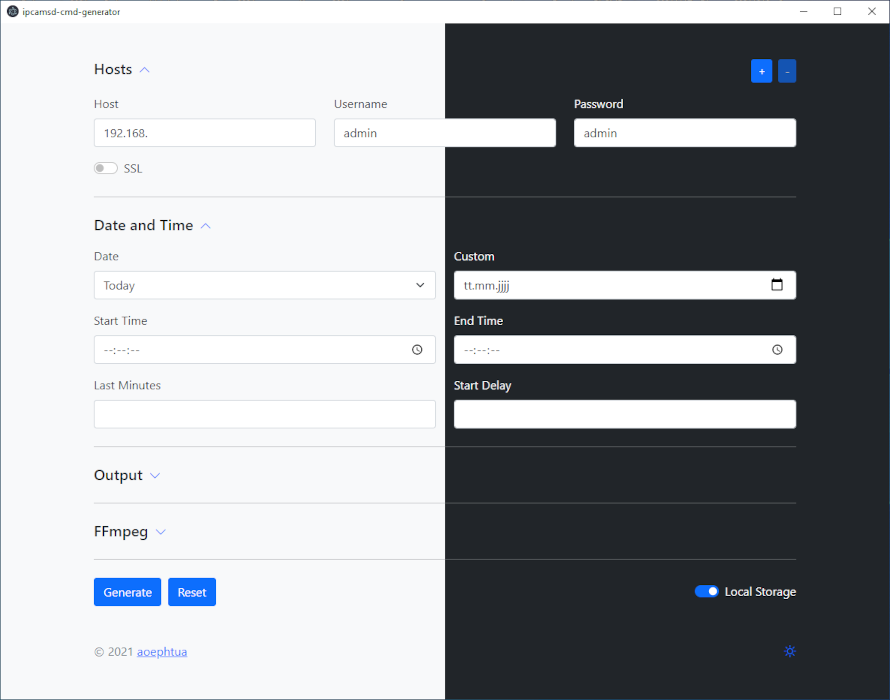
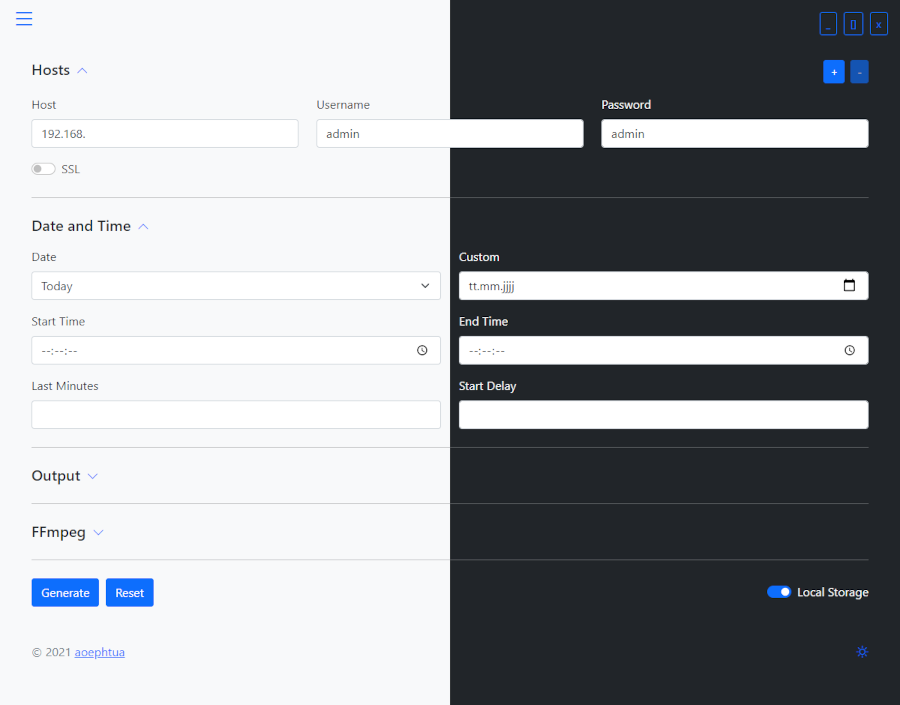
Adds custom TitleBar.svelte

diff --git a/src/lib/TitleBar.svelte b/src/lib/TitleBar.svelte
@@ -1,0 +1,59 @@
+<!--
+Copyright (c) 2021, Thorsten A. Weintz. All rights reserved.
+Licensed under the MIT license. See LICENSE in the project root for license information.
+-->
+
+<script>
+    import Button from '$lib/form/Button.svelte';
+
+    export let themeClass = undefined;
+
+    const electron = window['electron'];
+
+    let maximized, fullscreen;
+
+    if (electron.on) {
+        electron
+            .on('maximize', () => maximized = true)
+            .on('unmaximize', () => maximized = false)
+            .on('fullscreen', value => fullscreen = value);
+    }
+
+    const maximize = () => 
+        maximized ? electron.unmaximize() : electron.maximize();
+</script>
+
+{#if electron && !fullscreen}
+    <nav class={themeClass + ' fixed-top float-start w-100'}>
+        <i class="bi bi-list p-3 text-primary"
+           on:click={electron.showMenu}>
+        </i>
+        <div class="float-end p-3">
+            <Button title="_"
+                    className="btn-outline-primary btn-sm"
+                    onClick={electron.minimize} />
+            <Button title={maximized ? '[[]]' : '[]'}
+                    className="btn-outline-primary btn-sm ms-1"
+                    onClick={maximize} />
+            <Button title="x"
+                    className="btn-outline-primary btn-sm ms-1"
+                    onClick={electron.close} />
+        </div>
+    </nav>
+
+    <style>
+        nav {
+            -webkit-user-select: none;
+            -webkit-app-region: drag;
+        }
+
+        nav i {
+            font-size: 32px;
+            cursor: pointer;
+        }
+
+        nav button, nav i {
+            -webkit-app-region: no-drag;
+        }
+    </style>
+{/if}

diff --git a/src/routes/index.svelte b/src/routes/index.svelte
@@ -8,21 +8,31 @@ Licensed under the MIT license. See LICENSE in the project root for license info
 
     import { groups, themeClass } from '../stores.js';
 
+    import TitleBar from '$lib/TitleBar.svelte';
 	import Form from '$lib/form/Form.svelte';
     import Footer from '$lib/Footer.svelte';
     
     import 'bootstrap/dist/css/bootstrap.min.css';
     import 'bootstrap-icons/font/bootstrap-icons.css';
 
+    import '../scrollbar.css';
+
+    let isElectron;
+
     onMount(() => {
+        isElectron = navigator.userAgent
+            .indexOf(' Electron/') > -1;
         groups.init();
         themeClass.init();
     });
 </script>
 
 {#if $themeClass}
+    {#if isElectron}
+        <TitleBar themeClass={$themeClass} />
+    {/if}
     <div id="main-container" class={$themeClass}>
-        <div class="container py-5">
+        <div class={'container ' + (isElectron ? 'pt-6 pb-5' : 'py-5')}>
             <main>
                 <div class="row g-5">
                     <div class="col-12">
@@ -35,8 +45,14 @@ Licensed under the MIT license. See LICENSE in the project root for license info
     </div>
 {/if}
 
+{#if false}<slot/>{/if}
+
 <style>
     #main-container {
         min-height: 100%;
+    }
+
+    .pt-6 {
+        padding-top: 5rem !important;
     }
 </style>

diff --git a/src/lib/form/Button.svelte b/src/lib/form/Button.svelte
@@ -9,11 +9,16 @@ Licensed under the MIT license. See LICENSE in the project root for license info
     export let type = undefined;
     export let onClick = undefined;
     export let disabled = undefined;
+
+    const click = (e) => {
+        if (onClick) onClick();
+        e.target.blur();
+    };
 </script>
 
 <button class={'btn ' + (className || 'btn-primary')}
         type={type || 'button'}
-        on:click={onClick}
+        on:click={click}
         {disabled}>
     {title}
 </button>

diff --git a/src/lib/form/Group.svelte b/src/lib/form/Group.svelte
@@ -13,7 +13,8 @@ Licensed under the MIT license. See LICENSE in the project root for license info
     import Line from './Line.svelte';
     import UserControl from './UserControl.svelte';
 
-    export let title, defaults, controls, children, multiple, collapsed;
+    export let title, defaults, controls, children, multiple;
+    export let collapsed = undefined;
     export let setGroups = () => {};
 
     let containerId = getUniqueIdentifier('collapse');

diff --git a/src/scrollbar.css b/src/scrollbar.css
@@ -1,0 +1,15 @@
+::-webkit-scrollbar {
+    width: 6px;
+}
+  
+::-webkit-scrollbar-track {
+    background: #f1f1f1;
+}
+
+::-webkit-scrollbar-thumb {
+    background: #adb0b2; 
+}
+
+::-webkit-scrollbar-thumb:hover {
+    background: #6c757d;
+}
